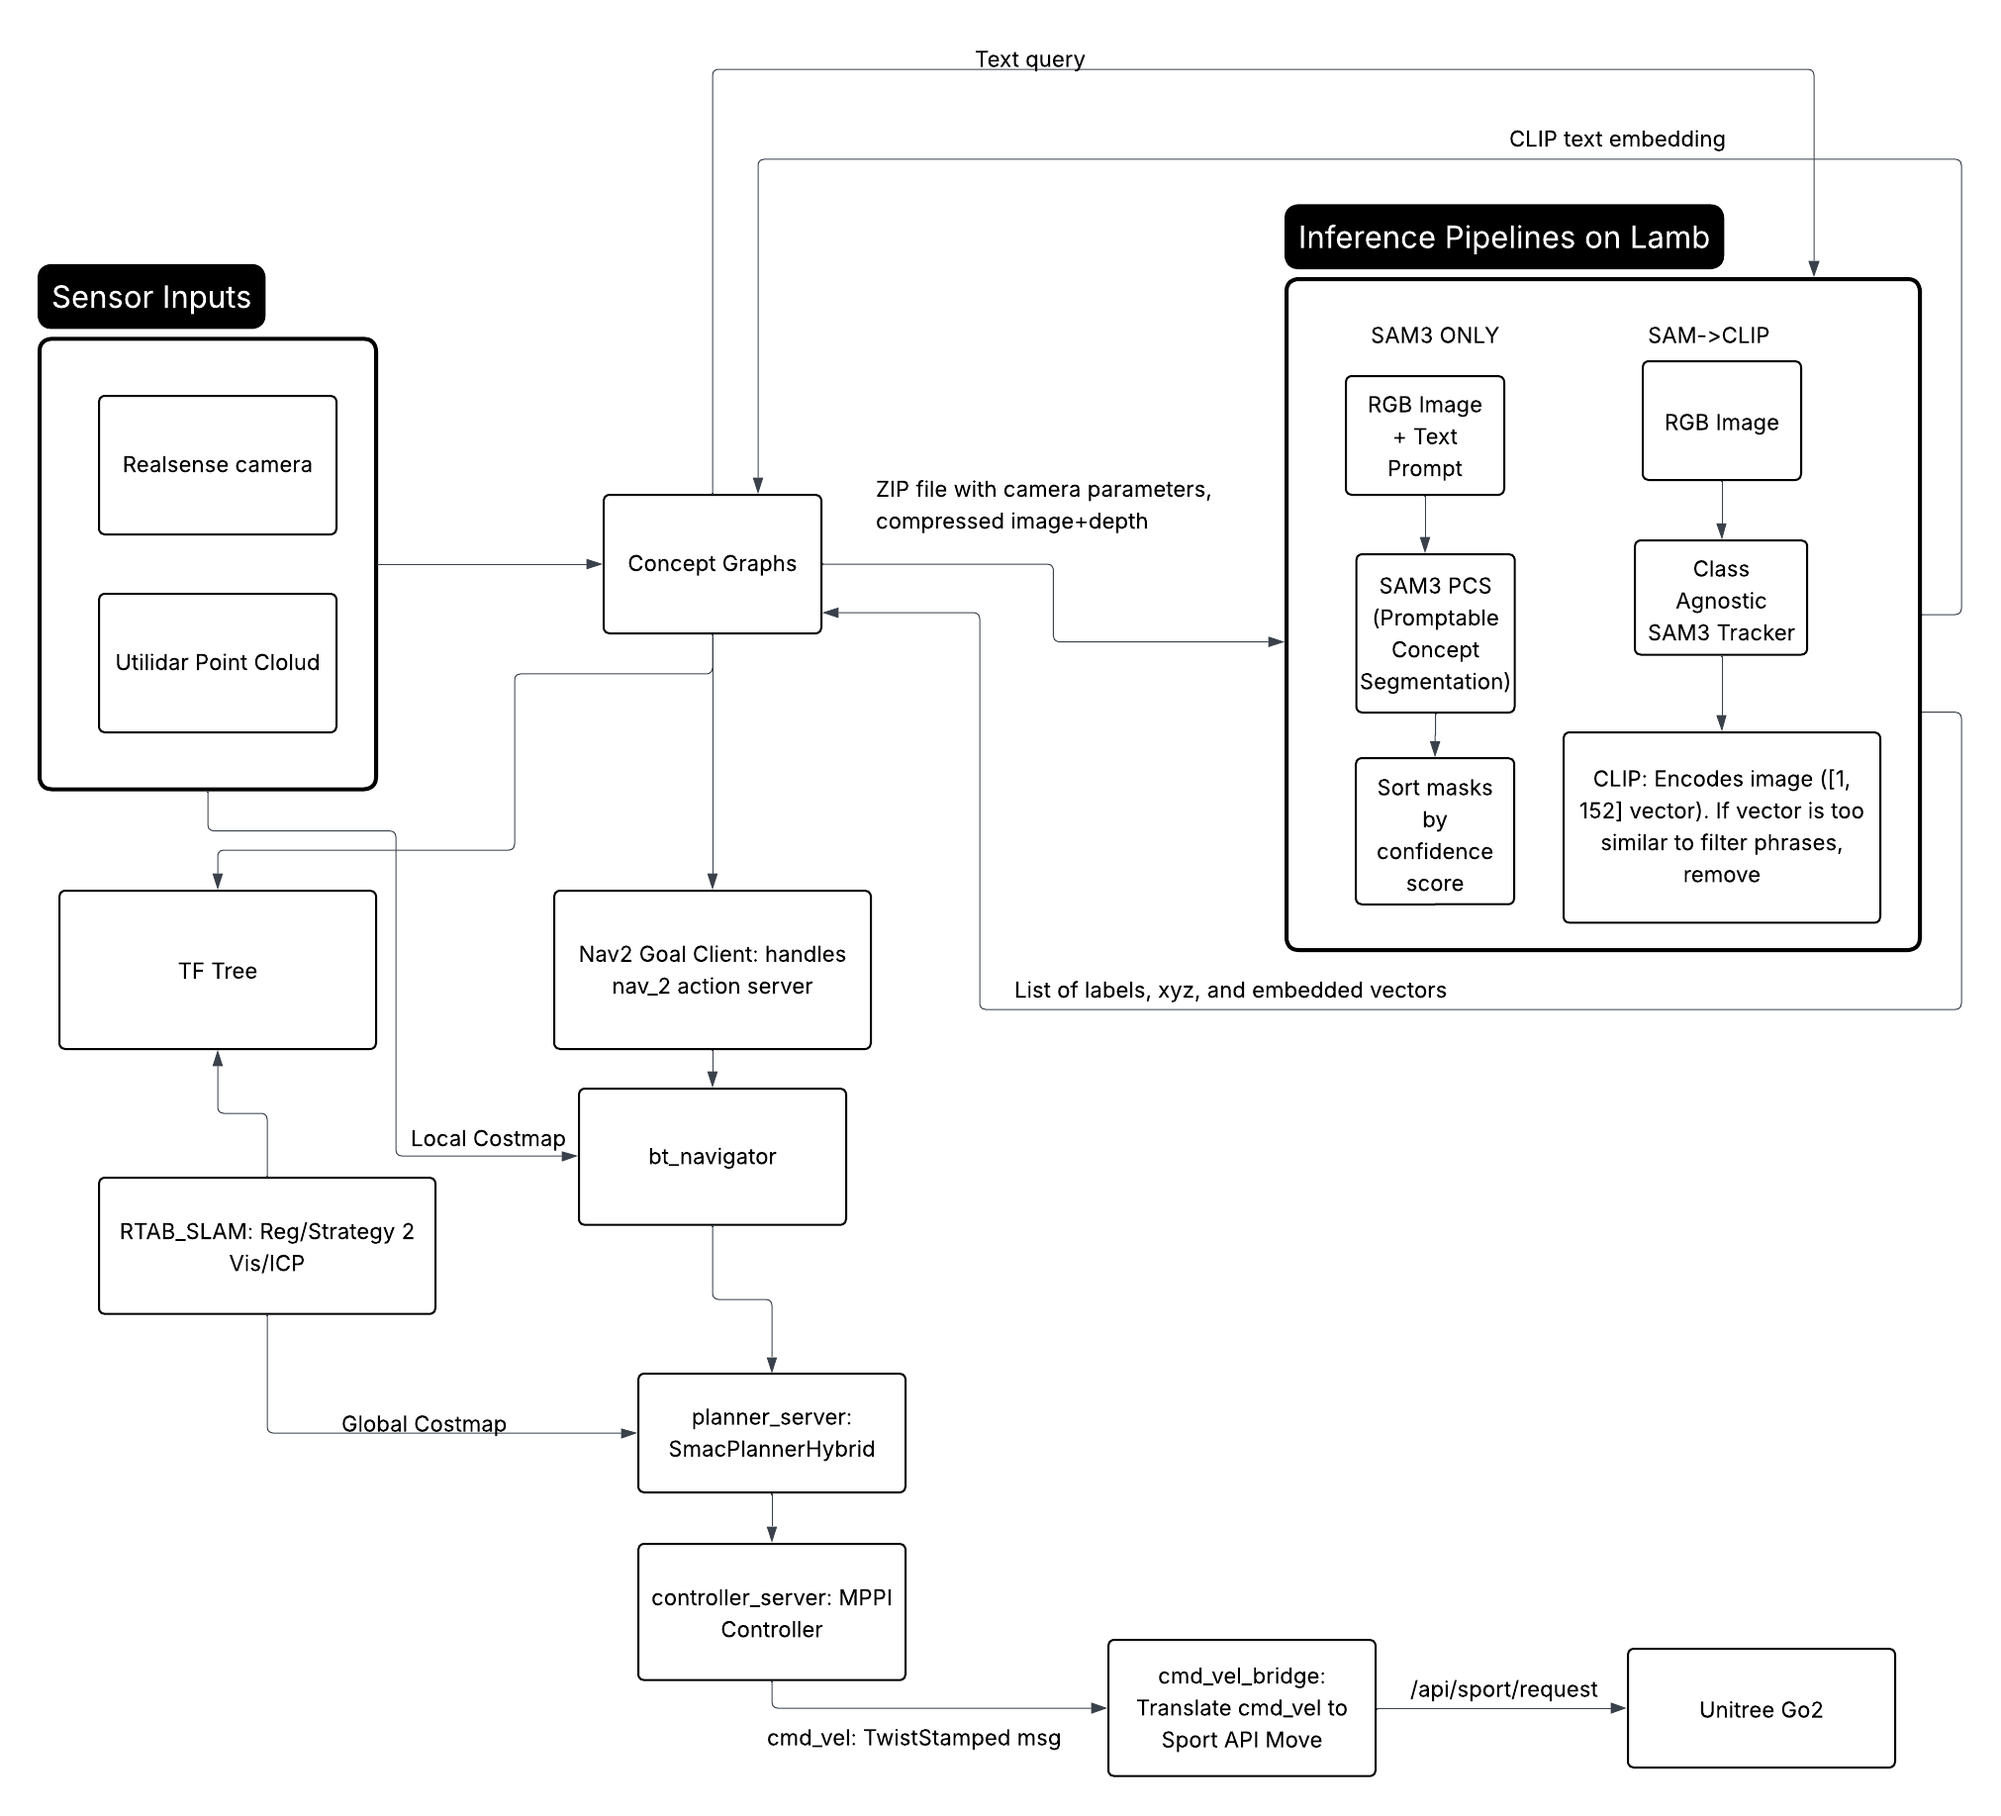
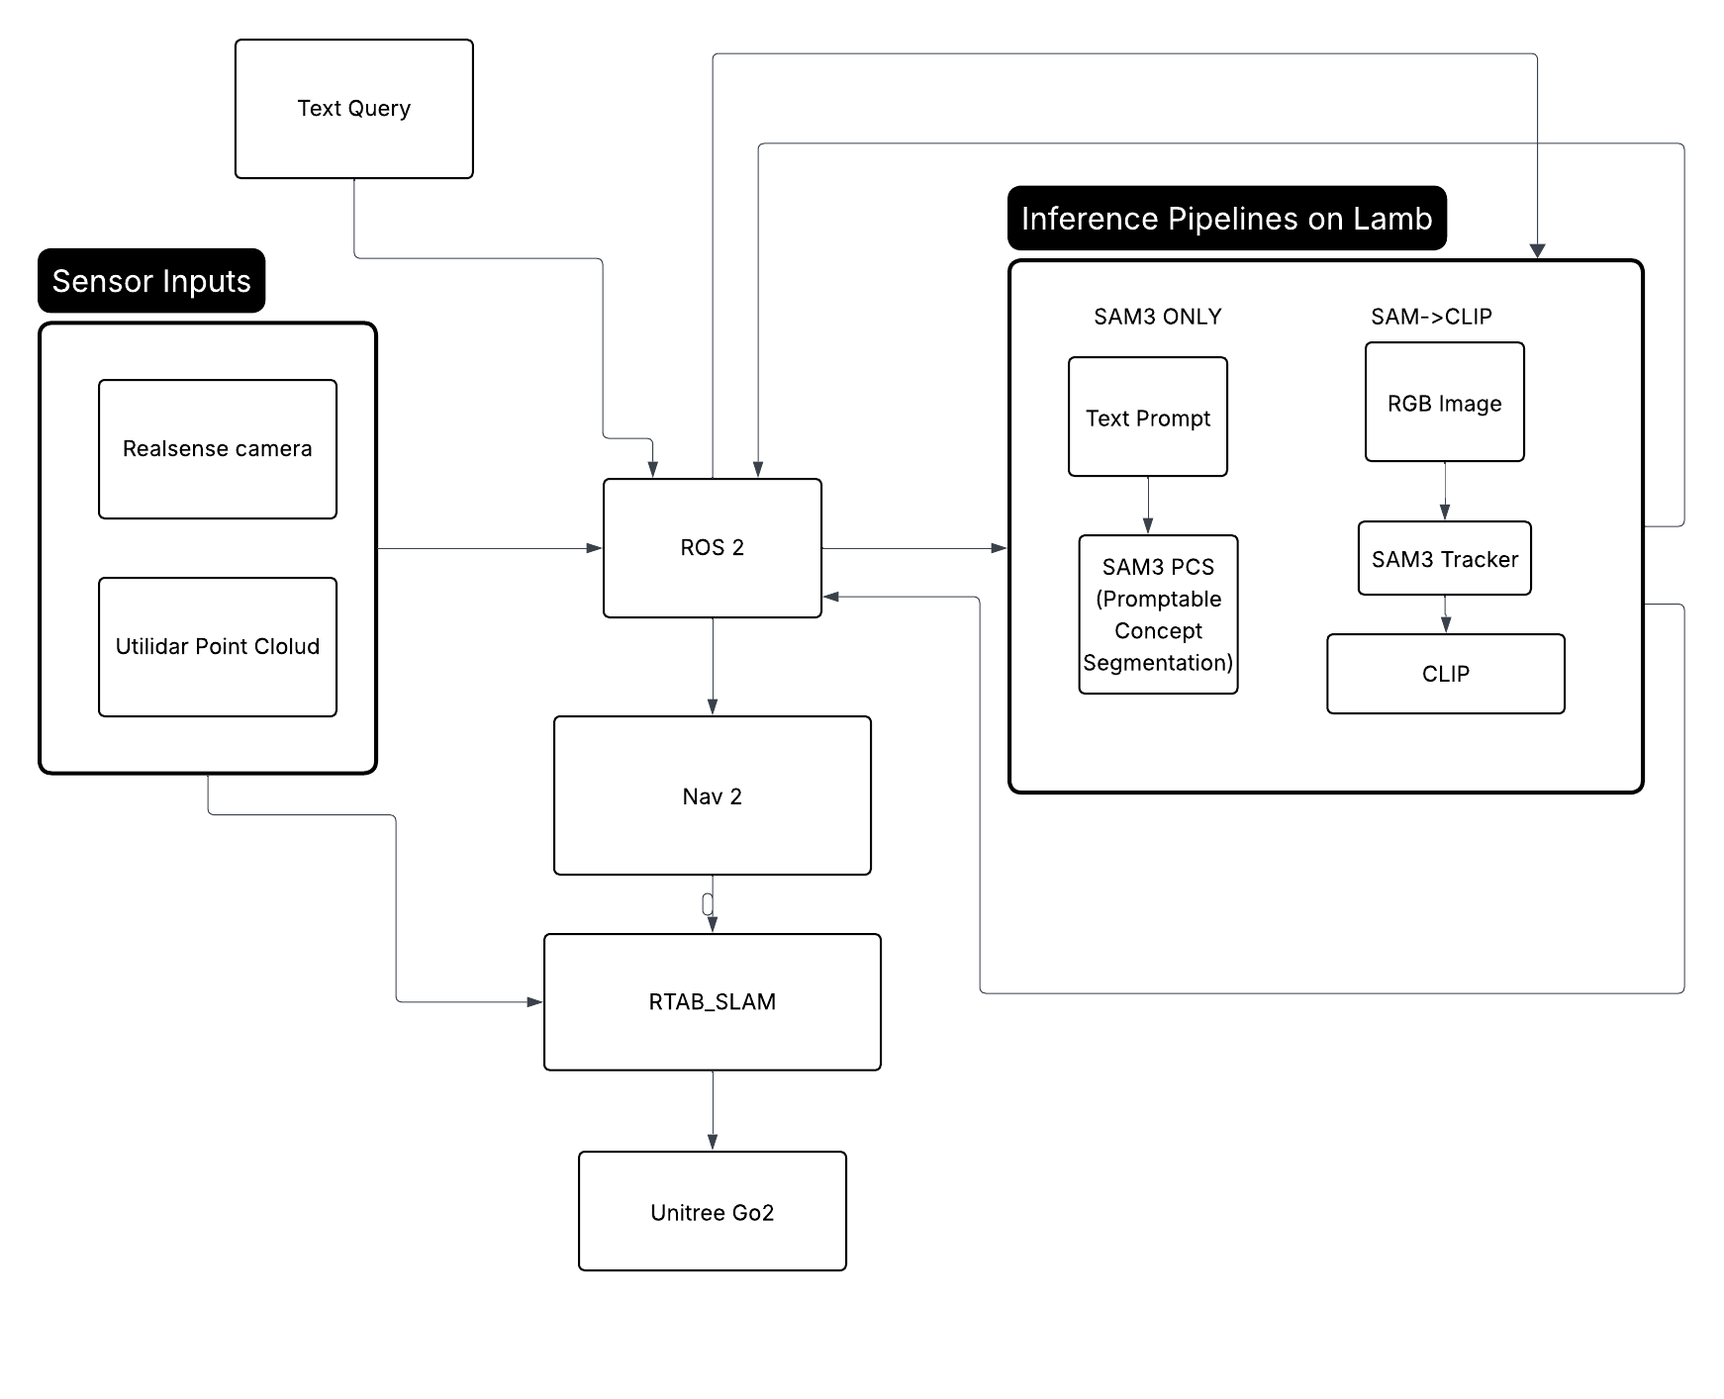
Update PAWS website

diff --git a/content/projects/paws.md b/content/projects/paws.md
@@ -10,12 +10,12 @@ github = "https://github.com/KThompson2002/winter_project"
 
 ## Overview
 
-To successfully operate in the real world, robots needs a persistent, queryable memory of the objects in its environment. It can't be a fixed list of categories decided at training time. This project is a quadruped robot that freely explores an environment and constructs a semantic map of everything it observes, which can then be queried in plain English to drive autonomous navigation.
+Utilizing SAM3 for class Agnostic Segmentation, and a combination of geometric and clip-embedded similarity scores, I have implemented an open-vocabulary 3D memory alongside the Nav2 and RTAB-Maps autonomous navigation stack. Using a simple text query, Unitree Go2 can be directed to navigate to any object it has seen in it's surroundings with no prior training in that environment.
 
 ## Demo
 
 <div class="video-container">
-<iframe src="https://www.youtube.com/embed/--Bjr-55ZY0?si=WTRINm3Di1CkeE-n" title="YouTube video player" frameborder="0" allow="accelerometer; autoplay; clipboard-write; encrypted-media; gyroscope; picture-in-picture; web-share" referrerpolicy="strict-origin-when-cross-origin" allowfullscreen style="width:100%;height:auto;aspect-ratio:16/9;"></iframe>
+<iframe width="560" height="315" src="https://www.youtube.com/embed/LwYi1FsR96A?si=TwJHmsbUj2qXUNF0" title="YouTube video player" frameborder="0" allow="accelerometer; autoplay; clipboard-write; encrypted-media; gyroscope; picture-in-picture; web-share" referrerpolicy="strict-origin-when-cross-origin" allowfullscreen></iframe>
 </div>
 
 After building out a 3D map and semantic graph of it's environment, the Go2 autonomously navigates to items based off simple descriptions (i.e. 'red balloon', 'yellow sign', 'orange jacket'). After an object is flagged, its marker representation turns red in the concept graph.
@@ -57,6 +57,9 @@ For a query string $q$:
 
 $$\mathbf{t} = \frac{f_T(q)}{\|f_T(q)\|_2} \in \mathbb{R}^{512}$$
 
+
+![CLIP Architecture](/img/clip.webp)
+*Figure 1: Architecture of CLIP model (taken from the original paper)*
 
 ### Cosine Similarity
 All comparisons between embeddings use cosine similarity. Since vectors are L2-normalized,
@@ -101,14 +104,7 @@ $$\mathbf{p}^{(n+1)} = \frac{n \cdot \mathbf{p}^{(n)} + \mathbf{p}_{\text{new}}}
 
 ### CLIP Embedding
 
-$$\tilde{\mathbf{v}}^{(n+1)} = \frac{n \cdot \mathbf{v}^{(n)} + \mathbf{v}_{\text{new}}}{n + 1}$$
-
-Re-normalized to the unit sphere after each update:
-
-$$\mathbf{v}^{(n+1)} = \frac{\tilde{\mathbf{v}}^{(n+1)}}{\|\tilde{\mathbf{v}}^{(n+1)}\|_2}$$
-
-This incrementally refines the semantic representation of each object
-without storing the full observation history.
+CLIP embeddings are re-normalized to the unit sphere after each update. This incrementally refines the semantic representation of each object without storing the full observation history.
 
 
 ## 5. Natural Language Query & Retrieval
@@ -116,6 +112,14 @@ without storing the full observation history.
 Given a query string $q$, the system finds the best-matching object in the map.
                 
 The centroid $\mathbf{p}_{o^*}$ is projected to $z = 0$ and published as a Nav2 goal pose.
+
+## 6. Remote GPU Inference
+
+Remote inference was done with a combination of FastAPI and Uvicorn.
+
+FastAPI was chosen for a key reason: Async I/O. Async def route handlers let the server handle image upload/decode without blocking while the GPU is busy, making it non-blocking for future multi-request scenarios.
+
+Uvicorn was chosen because It's the standard ASGI server for FastAPI. FastAPI is an ASGI framework and requires an ASGI-compatible server and Uvicorn fills that role.
 
 ## Nav 2 and RTAB-Map
 
@@ -141,6 +145,22 @@ transform that Nav2 uses.
 
 Reg/Strategy = 2 — visual features + ICP scan matching combined.
 
+### Frontier Exploration                                                          
+                                           
+Frontier exploration is an autonomous map-building strategy where a robot navigates to the boundaries between known free space and unknown space in order to systematically explore an environment.
+How It Works                                                                  
+  1. Frontier Detection — The occupancy grid (from SLAM) is scanned for cells   
+  that border both free and unknown space. These edges are the frontiers.
+  2. Goal Selection — A frontier is selected as the next navigation target,     
+  typically by some cost function (e.g., nearest frontier, largest unexplored   
+  region, or information gain).
+  3. Navigation — The robot drives to the selected frontier using Nav2                                                               
+  4. Map Update — As the robot moves, RTAB-SLAM updates the map, revealing new
+  frontiers and marking old ones as explored.                                   
+  5. Repeat — The process continues until no frontiers remain (full coverage) or
+   a stop condition is met.  
+
+While Frontier Exploration is still in progress, it should be implementable with minor modifications to the RTAB-Map Parameters.
 
 ## Conclusions and Takeaways
 
